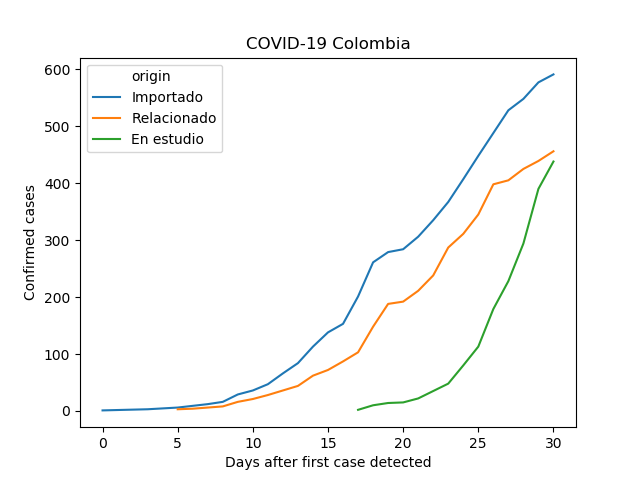
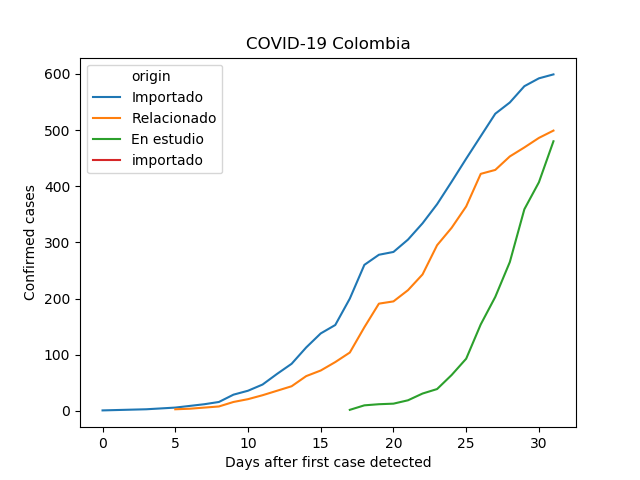
Updated contagion map. Updated maps/plots for Colombia and world to April 5

diff --git a/Colombia/contagion_maps.py b/Colombia/contagion_maps.py
@@ -68,7 +68,7 @@ ax1 = fig.add_subplot(gs[0, 0:])
 airport_areas = [['  ', (-77, 3.5, -72, 5.8), ax1],
                  ['Medellín', (-76.8, 5.6, -74.8, 7.1), ax3],
                  ['Cali', (-77, 3.3, -75, 4.8), ax4],
-                 ['North-East', (-74, 6.9, -72, 8.4), ax5],
+                 ['Bucaramanga - Cúcuta', (-74, 6.9, -72, 8.4), ax5],
                  ['Caribbean Coast', (-76, 9.7, -72.5, 12.325), ax6]]
 for region in airport_areas:
     limits = region[1]

diff --git a/Colombia/README.md b/Colombia/README.md
@@ -1,22 +1,48 @@
-Colombia
+#Covid-19 Colombia Datavis
+## A section dedicated to COVID-19 data for Colombia
+
+This section focuses in the visualisation of COVID-19 cases in Colombia. It uses the oficial data set provided by the goverment of Colombia through [coronaviruscolombia.gov.co](https://coronaviruscolombia.gov.co/) 
+
+The aim of developing this tools is to provide an open resource for people wiling to understand the behaviour of Covid-19 cases in Colombia. Users with basic knowledge of the python programing language can replicate all the tools developed. 
+
+Data Access: The [script](getData.py) sets the functions to get the CSV file from the oficial website. [Under development] However, the current state uses a file manually dow.loaded from the web site.
+
+General trends: The [script](line_plots.py) uses the [Seaborn Library](https://seaborn.pydata.org/) to plot the general trends for Colombia's total cases by source and treatment.
+
+![plots/total_cases.png](Total Cases)
+
+Death rate: The script aims to visualise the evolution of Covid-19 death trends in Colombia. 
+
+Maps: The [script](contagion_maps.py) uses [the Geopandas library](https://geopandas.org/) and official geospatial data from Colombia to map the spatial distribution of the cases.
+
+# Data Structures
+
+Note: To benefit international researchers and developers as well as to make this repository "discoverable" in the web, all documentation and source code will use English as the main language.
+
+## Covid-19 Official Data for Colombia 
+
+The government of Colombia distributes the official data set of Covid-19 Cases as a csv file using an [Infogram Widget](https://coronaviruscolombia.gov.co).
+From that structure, the data access script sets a data structure based on the original structure according to the following list.
+
+| *Original Name* | *Field name |
+| --- | --- |
+| 'ID de caso' | 'id_case' |
+| 'Fecha de diagnóstico' | 'date' |
+| 'Ciudad de ubicación' | 'city' |
+| 'Departamento' | 'region' |
+| 'Atención' | 'treatment' |
+| 'Edad' | 'age' |
+| 'Sexo' | 'sex' |
+| 'Tipo*' | 'Origin' |
+| 'Pais de Procedencia' | 'Origin_country' |
 
 
-'ID de caso' --> 'id_case'
-'Fecha de diagnóstico' --> 'date'
-'Ciudad de ubicación' --> 'city'
-'Departamento' --> 'region'
-'Atención' --> 'treatment'
-'Edad'  --> 'age'
-'Sexo'  --> 'sex'
-'Tipo*'  --> 'Origin'
-'Pais de Procedencia' --> 'Origin_country'
+## Data sources:
 
+Geospatial data from Colombia come form open data platforms from the government of Colombia:
+### [SIGOT](https://sigot.igac.gov.co/)
+- Municipalities, in Spanish "Municipios" 
+- Provinces or regions, in Spanish "Departamento"
+### [Open Data portal](datos.gov.co)
+- Airports
 
-Datos:
-- Municipio: https://sigot.igac.gov.co/
-- Departamento
-- Aeropuerto: datos.gov.co
-
-
-libraries for geopandas 
-- descartes
